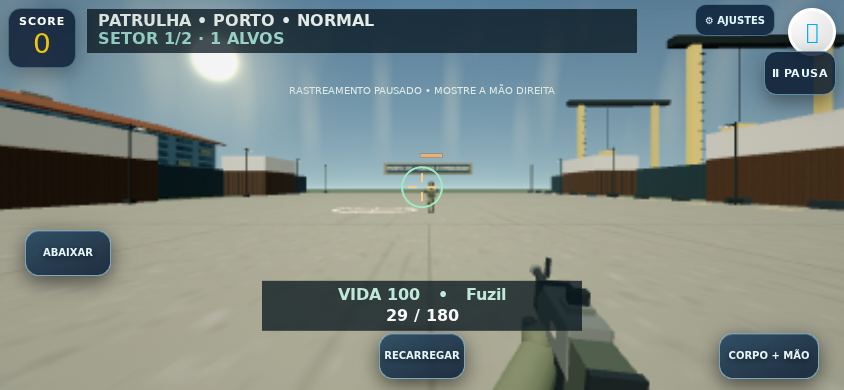
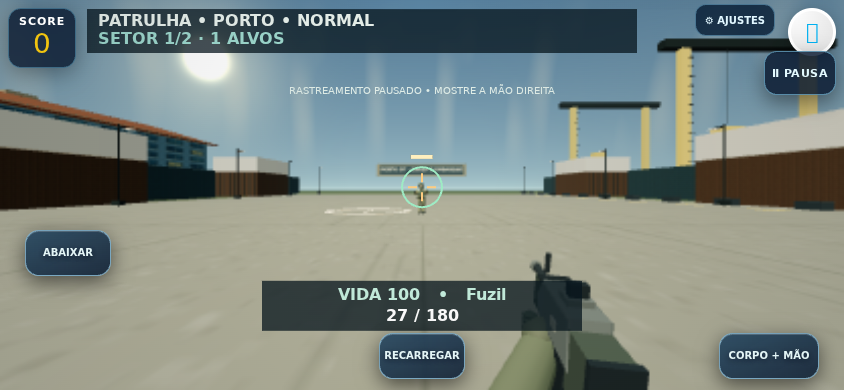
Calibrate WAR posture without camera drift and verify aligned training fire

diff --git a/games/ar/body-controls.js b/games/ar/body-controls.js
@@ -29,13 +29,15 @@ class BodyController{
   const b=this.neutral,hipReady=!!(hip&&b.hip),shift=hipReady?(hip.x-b.hip.x)/b.width:0,drop=hipReady?(hip.y-b.hip.y)/b.width:0;
   const shoulderDrop=(shoulder.y-b.shoulder.y)/b.width,footShift=foot&&b.foot?(foot.x-b.foot.x)/b.width:0,footDrop=foot&&b.foot?(foot.y-b.foot.y)/b.width:0;
   const scale=width/b.width-1,turn=hasWorld?-angle(yaw-b.yaw):0;
+  const rawLean=hipReady?(shoulder.x-hip.x)/width-(b.shoulder.x-b.hip.x)/b.width:(shoulder.x-b.shoulder.x)/b.width;
+  const deadzone=(value,margin)=>Math.abs(value)<=margin?0:Math.sign(value)*(Math.abs(value)-margin);
   let crouched=hipReady?drop>.34&&shoulderDrop>.28:shoulderDrop>.45&&Math.abs(scale)<.20;
   if(this.output.crouched)crouched=hipReady?drop>.22&&shoulderDrop>.17:shoulderDrop>.29&&Math.abs(scale)<.25;
   const intentionalSide=feet&&b.foot&&Math.sign(shift)===Math.sign(footShift)&&Math.abs(footShift)>.18;
   const moveX=intentionalSide?Math.sign(shift)*clamp((Math.abs(shift)-.24)/.55,0,1):0;
   const moveZ=feet&&b.foot&&Math.abs(turn)<.28&&Math.abs(shift)<.35&&Math.abs(footDrop)>.10&&Math.sign(scale)===Math.sign(footDrop)?Math.sign(scale)*clamp((Math.abs(scale)-.15)/.28,0,1):0;
   const twoHands=[15,16].every(i=>visible(points[i],.6))&&Math.hypot(points[15].x-points[16].x,points[15].y-points[16].y)/width<.9;
-  this.reason='ready';this.lastAt=at;Object.assign(this.output,{fresh:true,calibrated:true,moveX:crouched?moveX*.5:moveX,moveZ:crouched?0:moveZ,crouched,turnYaw:clamp(turn,-.7,.7),lean:hipReady?clamp((shoulder.x-hip.x)/width,-.7,.7):clamp((shoulder.x-b.shoulder.x)/width,-.7,.7),twoHands,timestamp:at,fullBody:!!(feet&&b.foot)});return this.output;
+  this.reason='ready';this.lastAt=at;Object.assign(this.output,{fresh:true,calibrated:true,moveX:crouched?moveX*.5:moveX,moveZ:crouched?0:moveZ,crouched,turnYaw:clamp(deadzone(turn,.055),-.7,.7),lean:clamp(deadzone(rawLean,.08),-.7,.7),twoHands,timestamp:at,fullBody:!!(feet&&b.foot)});return this.output;
  }
  read(now){return now-this.lastAt>1200?this.release(this.neutral?'lost':this.reason):this.output;}
 }

diff --git a/games/ar/index.html b/games/ar/index.html
@@ -402,7 +402,7 @@
     <script src="vendor/three-r128.min.js"></script>
   <script src="./combat-visuals.js?v=20261026-combat2"></script>
     <script src="world-renderer.js?v=20261028-war5"></script>
-    <script src="body-controls.js?v=20261029-body5"></script>
+    <script src="body-controls.js?v=20261029-body6"></script>
     <script src="hand-controls.js?v=20261029-bodyhands3"></script>
     <link rel="stylesheet" href="./multiplayer.css?v=20261024-mp1"><script src="./multiplayer.js?v=20261028-mp2"></script>
     <script src="./js/game_ar.js?v=20261028-war7"></script>

diff --git a/games/otthi/index.html b/games/otthi/index.html
@@ -1,5 +1,5 @@
 <!doctype html>
-<html lang="pt-BR" data-otthi-build="705.28.9-war-corpo-fases" data-otthi-revision="2bf3608e81e8e0a1">
+<html lang="pt-BR" data-otthi-build="705.28.9-war-corpo-fases" data-otthi-revision="6f18273470fd3940">
 <head>
   <meta charset="utf-8" />
   <meta name="viewport" content="width=device-width, initial-scale=1, viewport-fit=cover, user-scalable=no" />

diff --git a/games/ar/sw.js b/games/ar/sw.js
@@ -3,7 +3,7 @@
 // Release 2026-10-28: body-guided hand crop, hands-free advance, distinct operations.
 "use strict";
 const PREFIX="thia-arcade-ar-";
-const CACHE=PREFIX+"pro-control-v36";
+const CACHE=PREFIX+"pro-control-v37";
 const FILES=[
 "./audio/engine-fiat-idle.ogg",
 "./audio/engine-fiat-load.ogg",

diff --git a/games/otthi/sw.js b/games/otthi/sw.js
@@ -1,4 +1,4 @@
-const REVISION = '2bf3608e81e8e0a1';
+const REVISION = '6f18273470fd3940';
 const CACHE = `otthi-v70645-${REVISION}`;
 const CACHE_PREFIXES = ['otthi-','otthi-game-web-','otthos-life-world-main-'];
 const BUILD = '705.28.9-war-corpo-fases';

diff --git a/docs/evidence/war-corpo-fases-20261029/README.md b/docs/evidence/war-corpo-fases-20261029/README.md
@@ -10,7 +10,7 @@ Pedido: as fases se repetiam, o corpo não era reconhecido e a experiência não
 - Porto: corredores de contêineres, carga e embarque. Cidade: praça, ruas cruzadas, comunicações com captura sob ataque e flancos. Fortaleza: muralhas, torres, montanhas, dois transmissores e extração em quatro setores. Os cenários são geometria real, com iluminação e silhuetas distintas.
 - Corrigida a reflexão duplicada de Z dos soldados detalhados: os modelos ficavam atrás da câmera enquanto a lógica dos alvos estava à frente. Posição, orientação e altura agora acompanham a simulação. Teste com o modelo detalhado real verifica pés, cabeça, projeção e direção do rosto/arma.
 - Spawns ficam fora das coberturas. A cidade apresenta um contato frontal e mantém os ataques pelos flancos. Matar todos os adversários não pula a captura ou a extração. Objetivos/progresso são calculados pelo anfitrião e sincronizados no cooperativo.
-- Cache WAR v36 instala com quatro downloads e consumo imediato de cada corpo de resposta, evitando a trava do prefetech simultâneo. Falha descarta só o cache novo. URLs dos scripts alterados versionadas, rede sem cache HTTP no worker. Progresso, IDs de conta/jogo e gravações existentes preservados. Build web 705.28.9-war-corpo-fases, assetVersion 70645.
+- Cache WAR v37 instala com quatro downloads e consumo imediato de cada corpo de resposta, evitando a trava do prefetech simultâneo. Falha descarta só o cache novo. URLs dos scripts alterados versionadas, rede sem cache HTTP no worker. Progresso, IDs de conta/jogo e gravações existentes preservados. Build web 705.28.9-war-corpo-fases, assetVersion 70645.
 
 ## Evidências
 
@@ -19,7 +19,7 @@ Pedido: as fases se repetiam, o corpo não era reconhecido e a experiência não
 - `hand-camera.json`: inferência real de mão, eixos e acerto, com postura corporal sintética explicitamente identificada. O punho da postura sintética não é usado como recorte da imagem independente. Este ensaio exercita o modo por passos.
 - `campaign.json`: botões reais das três fases, WebGL de produção, retrato/paisagem, geometria e pixels distintos; soldados detalhados projetados no campo visível, sem erros JavaScript.
 - `touch.json`: três layouts móveis, quatro contatos simultâneos e mouse/teclado. `object.json`: rastreador real de objeto sobre câmera de pixels determinísticos, postura sintética, gestos/eixos/perdas e retorno aos controles.
-- `worker-unit.log`: transporte com seis conexões conclui todos os recursos; uma falha mantém a versão anterior. `update.json`: instalação real e completa do worker v36 em HTTP/1, ativação após sair da partida, carreira/arma/moedas e outros dados preservados. O estado legado já instalado é preparado pela fixture; a instalação antiga problemática não é apresentada como aprovada.
+- `worker-unit.log`: transporte com seis conexões conclui todos os recursos; uma falha mantém a versão anterior. `update.json`: instalação real e completa do worker v37 em HTTP/1, ativação após sair da partida, carreira/arma/moedas e outros dados preservados. O estado legado já instalado é preparado pela fixture; a instalação antiga problemática não é apresentada como aprovada.
 - Falhas do GitHub em bf4122f ocorreram antes de testar os jogos: Playwright 1.56.1 não instala Chromium em Ubuntu 26.04. Os três workflows foram fixados em ubuntu-24.04, mantendo todas as verificações e incluindo os novos ensaios conjuntos. Resultados públicos e da nova execução serão acrescentados após concluir.
 
 ## Limites
@@ -33,4 +33,8 @@ https://www.canva.com/M/MAHZVzJMdsY?utm_source=OC-AaBlKrqBJJNF&utm_campaign=agen
 
 Em e53967d, câmera/mundo passou (40846816583), incluindo ambos os modelos reais, três operações, toque, cache e ações civis. Embarque, frota, garagem e mapa móvel passaram. O mercado de Aurora voltou a comprar sem uma missão tomar o botão. A frota de 44 veículos e oito aeronaves passou; comércio e três minutos de trânsito passaram. O teste de renderização isolado revelou uma segunda falha: as janelas transparentes individuais excediam o orçamento de desenho nas aeronaves NPC. Elas foram agrupadas preservando todos os vértices, material, aberturas e hélices animadas; o limite original de 14 chamadas foi mantido e os quatro modelos passaram com 7/10/8/9 chamadas. Ver `airframe-budget.json` e `airframe-budget.log`. Aguardar nova execução da fonte final antes de declarar a suíte geral aprovada.
 
-Prioridade dos reconhecedores: em processador lento, resultados de postura podem ocupar o intervalo entre todas as observações da mão. A sessão agora dá observações consecutivas à mão quando a postura ainda é recente, atualizando o corpo antes do prazo. Não aumenta o limite de 550 ms da mão nem o de 1200 ms do corpo. Teste de relógio/worker verifica prioridade e ausência de starvation; repetir a inferência real e atualização v36 na fonte final. Uma tentativa pública anterior teve pausa segura do rastreamento e não atingiu o alvo; não apresentar essa tentativa como aprovada.
+Prioridade dos reconhecedores: em processador lento, resultados de postura podem ocupar o intervalo entre todas as observações da mão. A sessão agora dá observações consecutivas à mão quando a postura ainda é recente, atualizando o corpo antes do prazo. Não aumenta o limite de 550 ms da mão nem o de 1200 ms do corpo. Teste de relógio/worker verifica prioridade e ausência de starvation; repetir a inferência real e atualização v37 na fonte final. Uma tentativa pública anterior teve pausa segura do rastreamento e não atingiu o alvo; não apresentar essa tentativa como aprovada.
+
+Calibração neutra: o deslocamento natural entre ombros e quadril agora é subtraído da postura inicial. Pequeno ruído angular/lateral tem zona neutra, sem impedir inclinação deliberada. Regressão usa um tronco naturalmente deslocado; 29 testes de corpo/mão/campanha passaram. Ambos os modelos reais também passaram com adversário de treino estacionário e modelo/acerto reais. A imagem estática não pode acompanhar flanqueamento: o ensaio define destino/decisão do adversário para o próprio ponto, sem interceptar os modelos de visão ou alterar a lógica de disparo. Um ensaio adicional com CPU artificialmente limitada em 2x excedeu 550 ms e pausou os disparos; não certificar jogabilidade em hardware lento a partir desse ensaio.
+
+Família local: fluxo inteiro aprovado após isolar o service worker do gancho de QA; Thamis gravada/recarregada, movimento, grupos, pets, retrato, carro e HQ original. Fonte b4750cc passou embarque, mundo, frota/garagem; câmera falhou no ensaio de foto estática com adversário em flanqueamento. Aguardar a fonte final, suas verificações e publicação exata; produção ainda não foi atualizada nesta anotação.

diff --git a/docs/CONTINUAR_OT_GAMES_2026-10-29.md b/docs/CONTINUAR_OT_GAMES_2026-10-29.md
@@ -13,9 +13,9 @@ Thiago relatou fases repetitivas, corpo não reconhecido e jogo impraticável. I
 - Três mapas e objetivos diferentes, mantendo porto 2 setores, cidade 3 e fortaleza 4. Captura sob ataque, transmissores, marcadores de saída e progressão autoritativa no cooperativo. Spawns fora de coberturas; contato frontal na cidade e flancos mantidos.
 - Bug real de render: soldados detalhados tinham Z invertido duas vezes, deixando os corpos fora da vista. Corrigidos posição, orientação e altura, com comparação do modelo real e da projeção de acertos.
 - Suíte completa 319 aprovada e verificações focais de objetivos/câmera/render. Ambos os modelos reais sobre a mesma foto oficial calibraram e deram acerto real em um alvo detalhado; perda/retomada e avanço funcionaram. Isso não é teste de câmera física. Três mapas WebGL em duas orientações e controles simultâneos aprovados. Objeto preservado com prova de navegador.
-- Cache: instalação passa a drenar respostas a cada download, com quatro conexões, sem deixar todos os corpos pendentes. Dois testes de regressão e atualização real do v36 com saída de partida/carreira/arma/moedas preservadas aprovados.
+- Cache: instalação passa a drenar respostas a cada download, com quatro conexões, sem deixar todos os corpos pendentes. Dois testes de regressão e atualização real do v37 com saída de partida/carreira/arma/moedas preservadas aprovados.
 - GitHub: as três falhas exibidas em bf4122f eram instalação do Chromium incompatível com ubuntu-26.04. Workflows ot-games-smoke, scenery-smoke e gameplay-smoke fixados em ubuntu-24.04, sem retirar verificações. Aguardar suas execuções na fonte final antes de declarar aprovação.
-- Web 705.28.9-war-corpo-fases, assetVersion 70645, revisão 2bf3608e81e8e0a1. Worker WAR v36, scripts versionados; conta/IDs/progresso mantidos. Não alterar APK público ou criar chave de assinatura nova.
+- Web 705.28.9-war-corpo-fases, assetVersion 70645, revisão 6f18273470fd3940. Worker WAR v37, scripts versionados; conta/IDs/progresso mantidos. Não alterar APK público ou criar chave de assinatura nova.
 - Fonte de trabalho: branch `performance-gravacoes-20261027`; produção usa `world-revisao-20261022`. Conferir arquivos `deployment.json` e `public-*.json` desta pasta de evidências para identificar a publicação exata e os resultados públicos. Não tomar um commit WIP como versão já publicada.
 
 ## Publicação e recuperação
@@ -38,6 +38,10 @@ Produção ainda é dcd5272 até a fonte final passar no CI e ser publicada com 
 
 Aeronaves NPC: e53967d confirmou circulação das oito aeronaves, mas a galeria real falhou no orçamento <=14 chamadas por modelo. A correção seguinte agrupa apenas vidros com material idêntico e mantém a geometria integral, translucidez, aberturas da cabine e rotores independentes. Galeria real aprovada com 7/10/8/9 chamadas. Não aumentar o limite para esconder o custo. Última câmera/mundo aprovada em 40846816583, embarque/frota/garagem aprovados; jogabilidade/família ainda em execução durante essa anotação.
 
-Prioridade dos reconhecedores: em processador lento, resultados de postura podem ocupar o intervalo entre todas as observações da mão. A sessão agora dá observações consecutivas à mão quando a postura ainda é recente, atualizando o corpo antes do prazo. Não aumenta o limite de 550 ms da mão nem o de 1200 ms do corpo. Teste de relógio/worker verifica prioridade e ausência de starvation; repetir a inferência real e atualização v36 na fonte final. Uma tentativa pública anterior teve pausa segura do rastreamento e não atingiu o alvo; não apresentar essa tentativa como aprovada.
+Prioridade dos reconhecedores: em processador lento, resultados de postura podem ocupar o intervalo entre todas as observações da mão. A sessão agora dá observações consecutivas à mão quando a postura ainda é recente, atualizando o corpo antes do prazo. Não aumenta o limite de 550 ms da mão nem o de 1200 ms do corpo. Teste de relógio/worker verifica prioridade e ausência de starvation; repetir a inferência real e atualização v37 na fonte final. Uma tentativa pública anterior teve pausa segura do rastreamento e não atingiu o alvo; não apresentar essa tentativa como aprovada.
 
 O teste de família em e53967d já passou pelos menus de missão, seleção, movimento e persistência da Thamis, mas o segundo carregamento passou pelo worker real e ignorou o gancho de inspeção exigido pelo próprio teste. A revisão bloqueia service workers somente nesse contexto descartável de QA, mantendo o teste separado de cache (que usa o worker real). Não remover a verificação de persistência nem alterar os controles do produto para satisfazer o gancho.
+
+Calibração neutra: o deslocamento natural entre ombros e quadril agora é subtraído da postura inicial. Pequeno ruído angular/lateral tem zona neutra, sem impedir inclinação deliberada. Regressão usa um tronco naturalmente deslocado; 29 testes de corpo/mão/campanha passaram. Ambos os modelos reais também passaram com adversário de treino estacionário e modelo/acerto reais. A imagem estática não pode acompanhar flanqueamento: o ensaio define destino/decisão do adversário para o próprio ponto, sem interceptar os modelos de visão ou alterar a lógica de disparo. Um ensaio adicional com CPU artificialmente limitada em 2x excedeu 550 ms e pausou os disparos; não certificar jogabilidade em hardware lento a partir desse ensaio.
+
+Família local: fluxo inteiro aprovado após isolar o service worker do gancho de QA; Thamis gravada/recarregada, movimento, grupos, pets, retrato, carro e HQ original. Fonte b4750cc passou embarque, mundo, frota/garagem; câmera falhou no ensaio de foto estática com adversário em flanqueamento. Aguardar a fonte final, suas verificações e publicação exata; produção ainda não foi atualizada nesta anotação.
